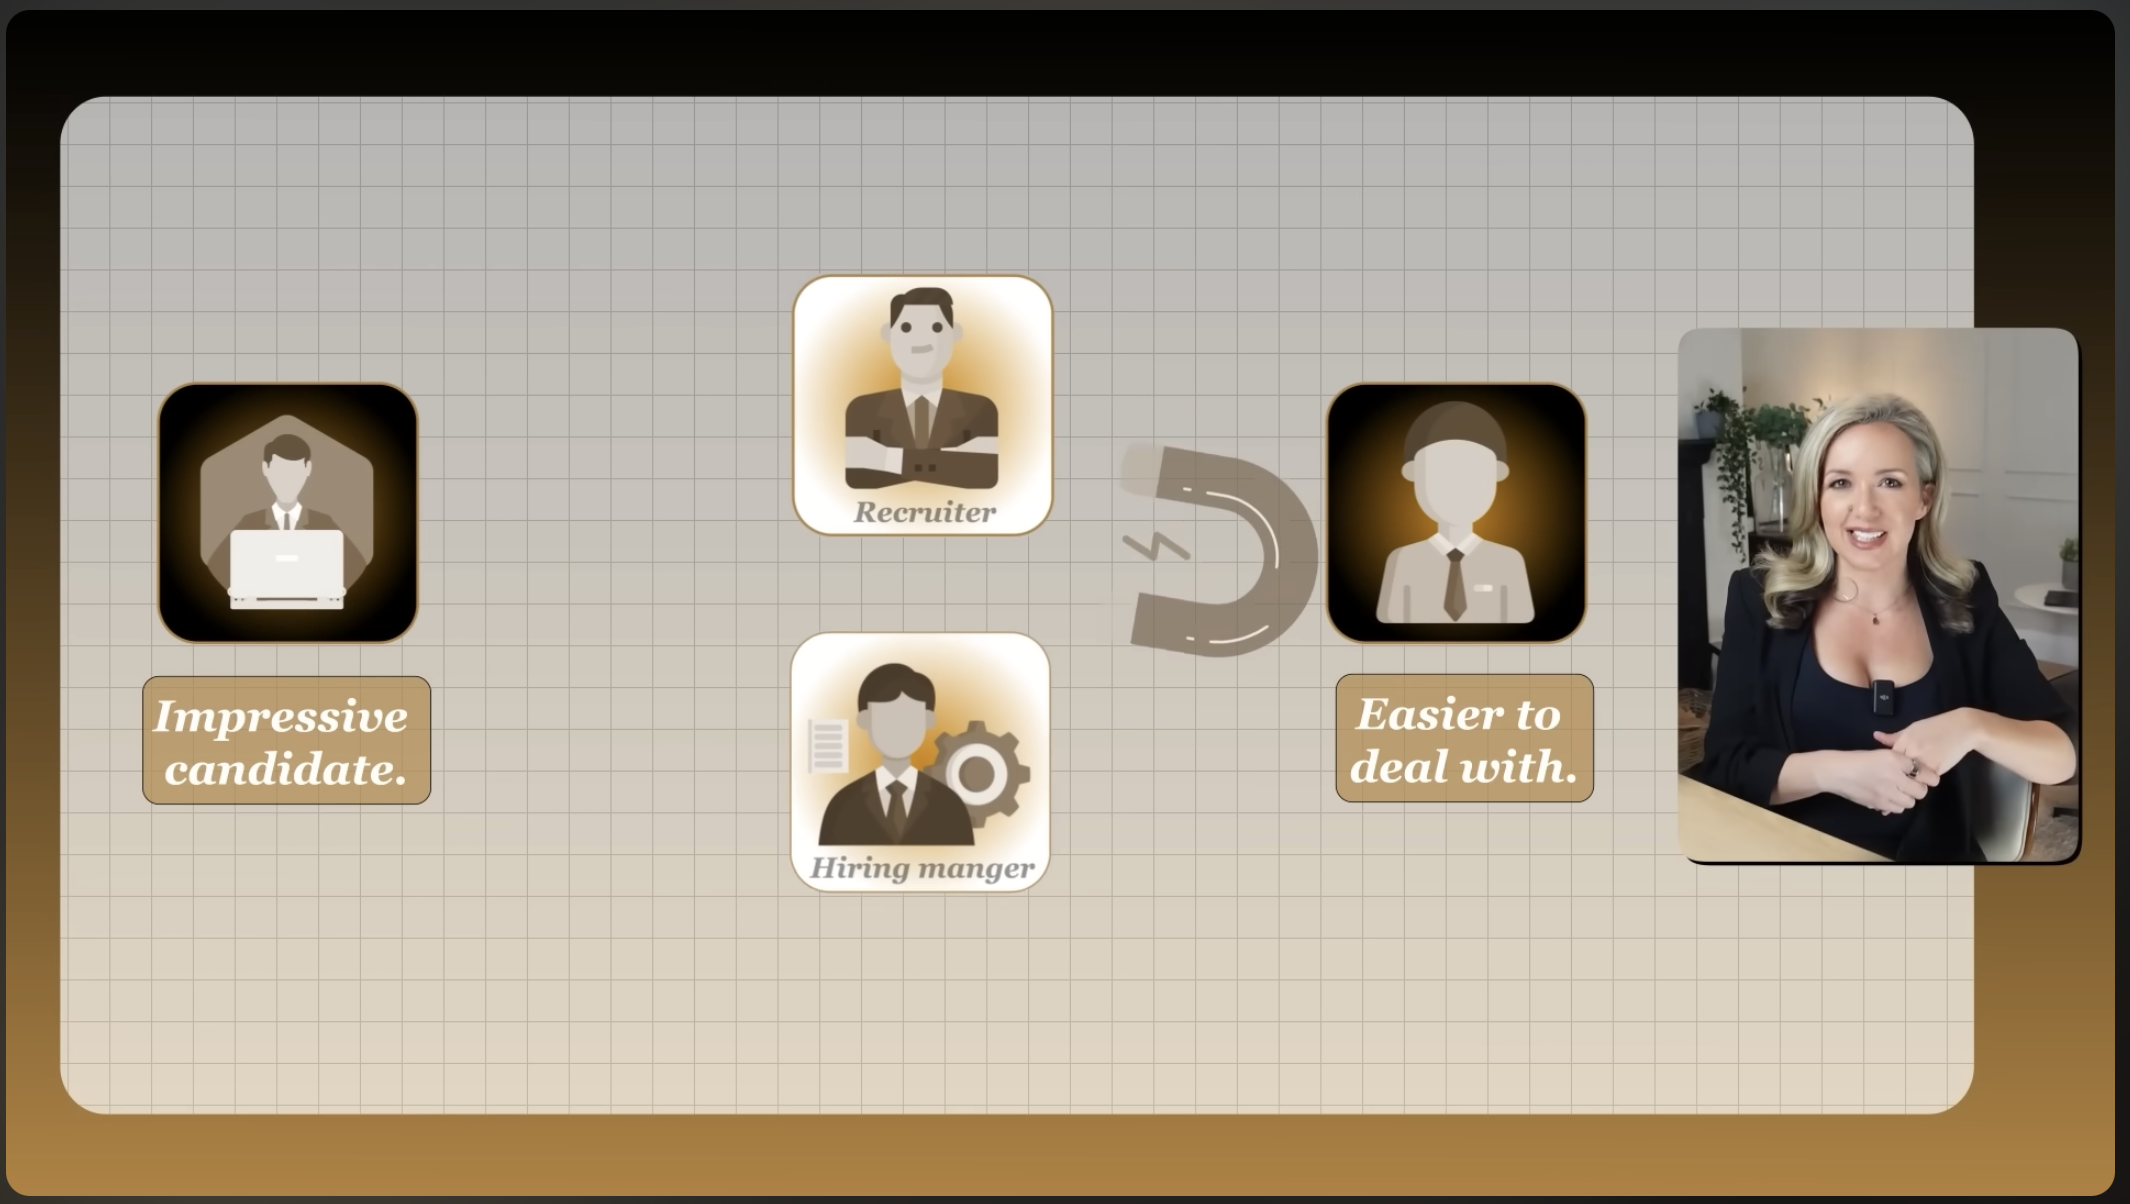
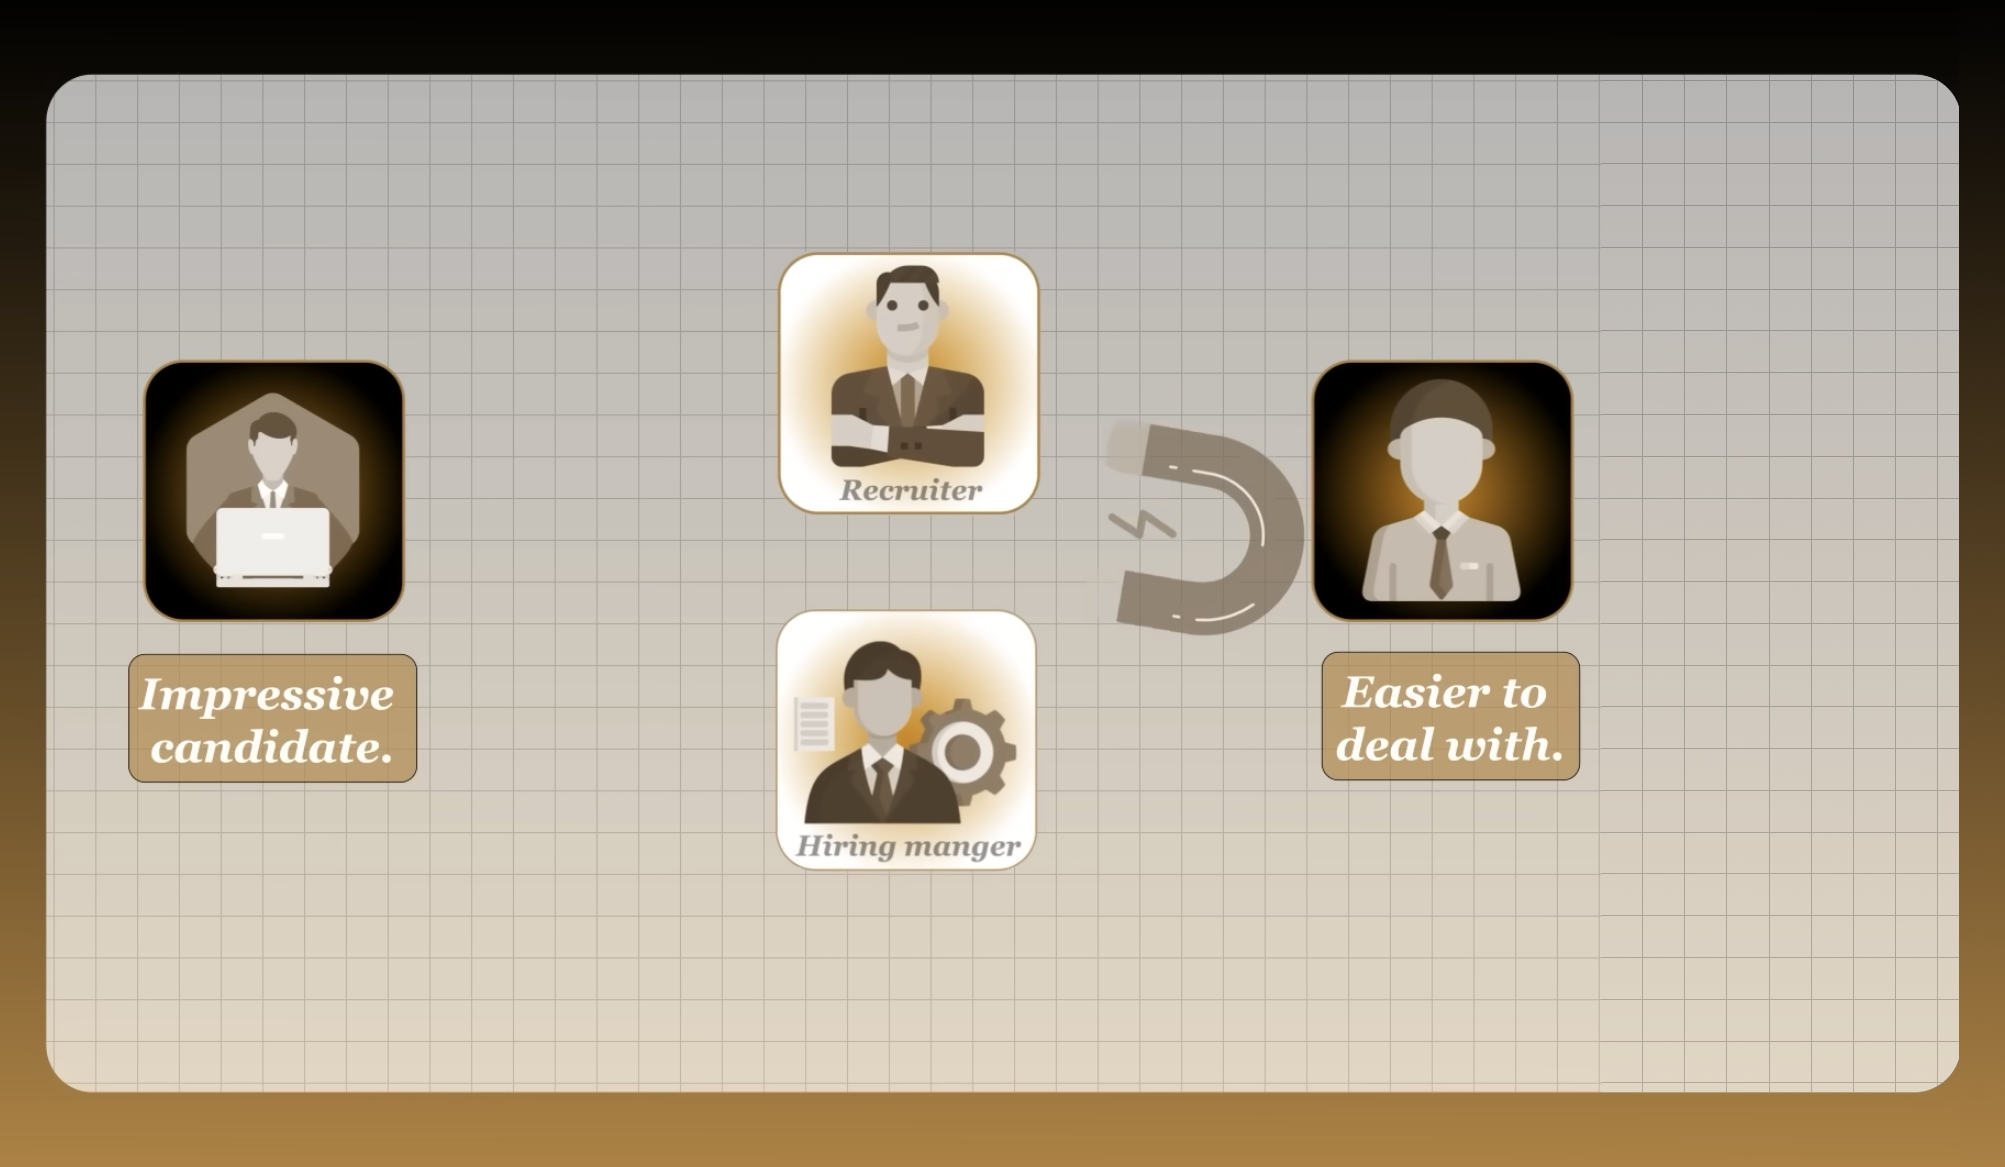
WIP: rework six videos that helped me get hired

Changed region(s): [[0.0, 0.0, 1.0, 1.0], [0.0618, 0.2776, 0.2165, 0.6787]]

diff --git a/src/content/entries/six-videos-that-helped-me-get-hired.md b/src/content/entries/six-videos-that-helped-me-get-hired.md
@@ -22,16 +22,88 @@ board with the same résumé and hoping somebody eventually developed poor
 judgment. I followed advice from several videos, rewrote how I presented
 myself, and practiced how I would handle the conversations.
 
-These are those videos.
+Here's what I ended up doing:
 
-They aren't six versions of the same interview tips. Together, they cover the
-whole trip: make your LinkedIn profile easy for recruiters to find, give them a
-reason to keep reading, handle the first call, explain what you can do, and
-turn the interview into a conversation about the company's problems.
+1. Stop applying for jobs
 
-Watch them in this order if you're starting from scratch. More importantly, do
-the work after each one. Watching career videos without changing anything is
-just professionally themed Netflix.
+   This probably sounds counterintuitive, but I was spending all my time and
+   energy applying for jobs. Filter jobs until I find one that fits, check to
+   see if it's still valid. Fill out their form. Wait to be rejected.
+
+2. Set up my LinkedIn
+
+   The videos I watched showed what a recruiter sees when they view your 
+   LinkedIn, which helped me tailor that information to ultimately bring me
+   the recruiters I was interested in without screaming "I'm unemployed!"
+
+3. Create a presence
+
+   For me this was as simple as making a website. You need a landing page
+   to drive people to. It can be a personal website, a YouTube or Instagram
+   channel, or a LinkTree. You just need a one-stop shop for people to snag
+   your résumé, phone, and email.
+
+4. Learn to talk to recruiters
+
+   Don't talk to a recruiter like an employer. A recruiter is hunting, so
+   they're trying to get you to WIN, whereas an employer is trying to filter you
+   out. Two very different conversations.
+
+   I learned from Lucy that when a recruiter calls, they're already betting on
+   you. All you have to do is not screw it up. Be someone the recruiter enjoys
+   talking to, which means be happy, optimistic, and answer questions quickly.
+   This doesn't mean talk about your dog and make jokes. The recruiter is doing
+   a job, and you need to help them get it done quickly and cheerily.
+   
+   I call this playing tennis. The recruiter asks a question, and you send back
+   an answer. If you get an answer wrong you'll know pretty quickly and that's
+   okay. Just take note for the next time a recruiter calls.
+   
+   However, each recruiter has certain filter questions. I received about three
+   recruiter calls a week, which helped me learn by trial and error. For example
+   I learned when they ask "What is your favorite AI" the answer should be
+   Claude. It doesn't matter what AI you've used or you think is best. Just make
+   sure you say Claude and you can move on to the next round.
+   
+   The only exception is about one in five will give you a question like "tell
+   me about yourself". That's when I'll use the same answer I would for an
+   employer with one exception. I don't talk about the business goals because
+   the recruiter doesn't know them. 
+   
+5. Learn to talk to employers
+
+   The main thing I keep in my mind when talking to a potential employer is to
+   drive the conversation myself. I try to conduct myself as if I were already
+   employed in the role I'm seeking. I tell them what I want to accomplish in
+   this meeting, and how I'd like to structure it. All the while holding focus
+   on what their needs are and how I can help them meet those needs. 
+
+   Invariably an employer says "tell me about yourself" and in my experience
+   it's one of the first things they ask. For that I start with the business
+   card answer I learned from Rebecca Okamoto: _"I specialize in helping small
+   teams solve complex problems without compromising their personal goals."_ 
+   
+   Then I follow with the chronology I learned from Bill
+   (https://www.youtube.com/watch?v=TQHW7gGjrCQ). I list the items from my
+   resume that are relevant to my current job. Later they're going to ask why
+   I'm leaving my current job or why I left it, so I cut this question off at
+   the chase. At the end of my chronology I tell them _"I'm looking to grow
+   by..."_ (gaining experience with larger teams, expanding into the customer
+   service industry, delving into the new AI craze) and I end with Bill's "and
+   that's what brings me here today."
+
+   One thing I do differently from Bill is I try to imagine I've scheduled this
+   call to help out a coworker or boss. I try to ask: what's the problem you're
+   trying to solve, and what have you done so far to resolve it? This question
+   shifts the interview from "is Samuel the right person" to "what are you
+   getting into" which is ultimately the things we all kinda want to know. What
+   if the role isn't right for ME? Once the employer has shifted their focus
+   onto their problems, I start strategizing right there in the interview with
+   how to solve it. This gives me an idea of what it would be like to work with
+   the employer (are they combative, progressive, ADHD). It also gives the
+   employer the confidence to know I'm ready to start helping them with their
+   problem.
+
 
 ## 1. Make your LinkedIn profile findable
 
